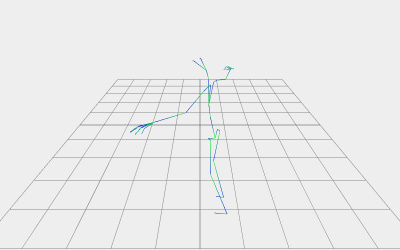
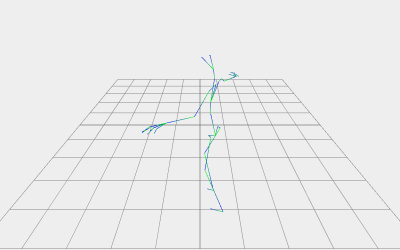
Examples: Refactor BVH demo. (#25763)
* Examples: Refactor BVH demo.

* Update E2E screenshot.

Changed region(s): [[0.33, 0.224, 0.6, 0.868]]

diff --git a/examples/webgl_loader_bvh.html b/examples/webgl_loader_bvh.html
@@ -44,7 +44,7 @@
 			const clock = new THREE.Clock();
 
 			let camera, controls, scene, renderer;
-			let mixer, skeletonHelper;
+			let mixer;
 
 			init();
 			animate();
@@ -52,18 +52,20 @@
 			const loader = new BVHLoader();
 			loader.load( 'models/bvh/pirouette.bvh', function ( result ) {
 
-				skeletonHelper = new THREE.SkeletonHelper( result.skeleton.bones[ 0 ] );
-				skeletonHelper.skeleton = result.skeleton; // allow animation mixer to bind to THREE.SkeletonHelper directly
+				const skinnedMesh = new THREE.SkinnedMesh();
+				skinnedMesh.visible = false; // dummy skinned mesh for animating the skeleton
 
-				const boneContainer = new THREE.Group();
-				boneContainer.add( result.skeleton.bones[ 0 ] );
+				skinnedMesh.add( result.skeleton.bones[ 0 ] );
+				skinnedMesh.bind( result.skeleton );
 
+				const skeletonHelper = new THREE.SkeletonHelper( skinnedMesh );
+
+				scene.add( skinnedMesh );
 				scene.add( skeletonHelper );
-				scene.add( boneContainer );
 
 				// play animation
-				mixer = new THREE.AnimationMixer( skeletonHelper );
-				mixer.clipAction( result.clip ).setEffectiveWeight( 1.0 ).play();
+				mixer = new THREE.AnimationMixer( skinnedMesh );
+				mixer.clipAction( result.clip ).play();
 
 			} );
 
